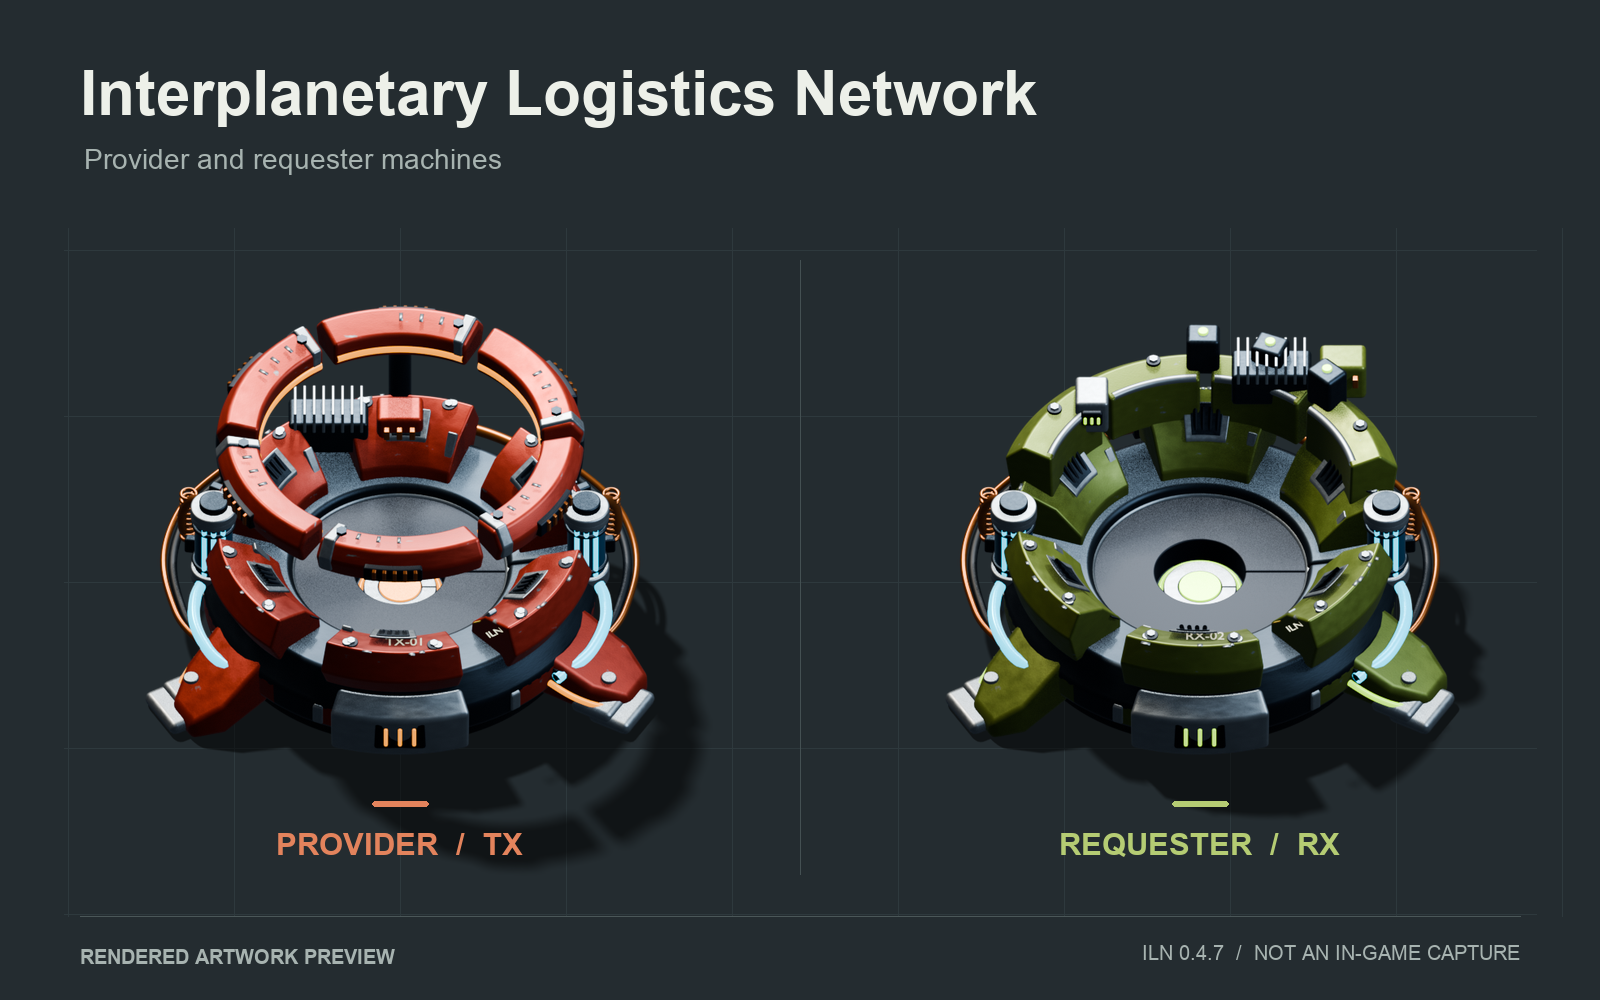
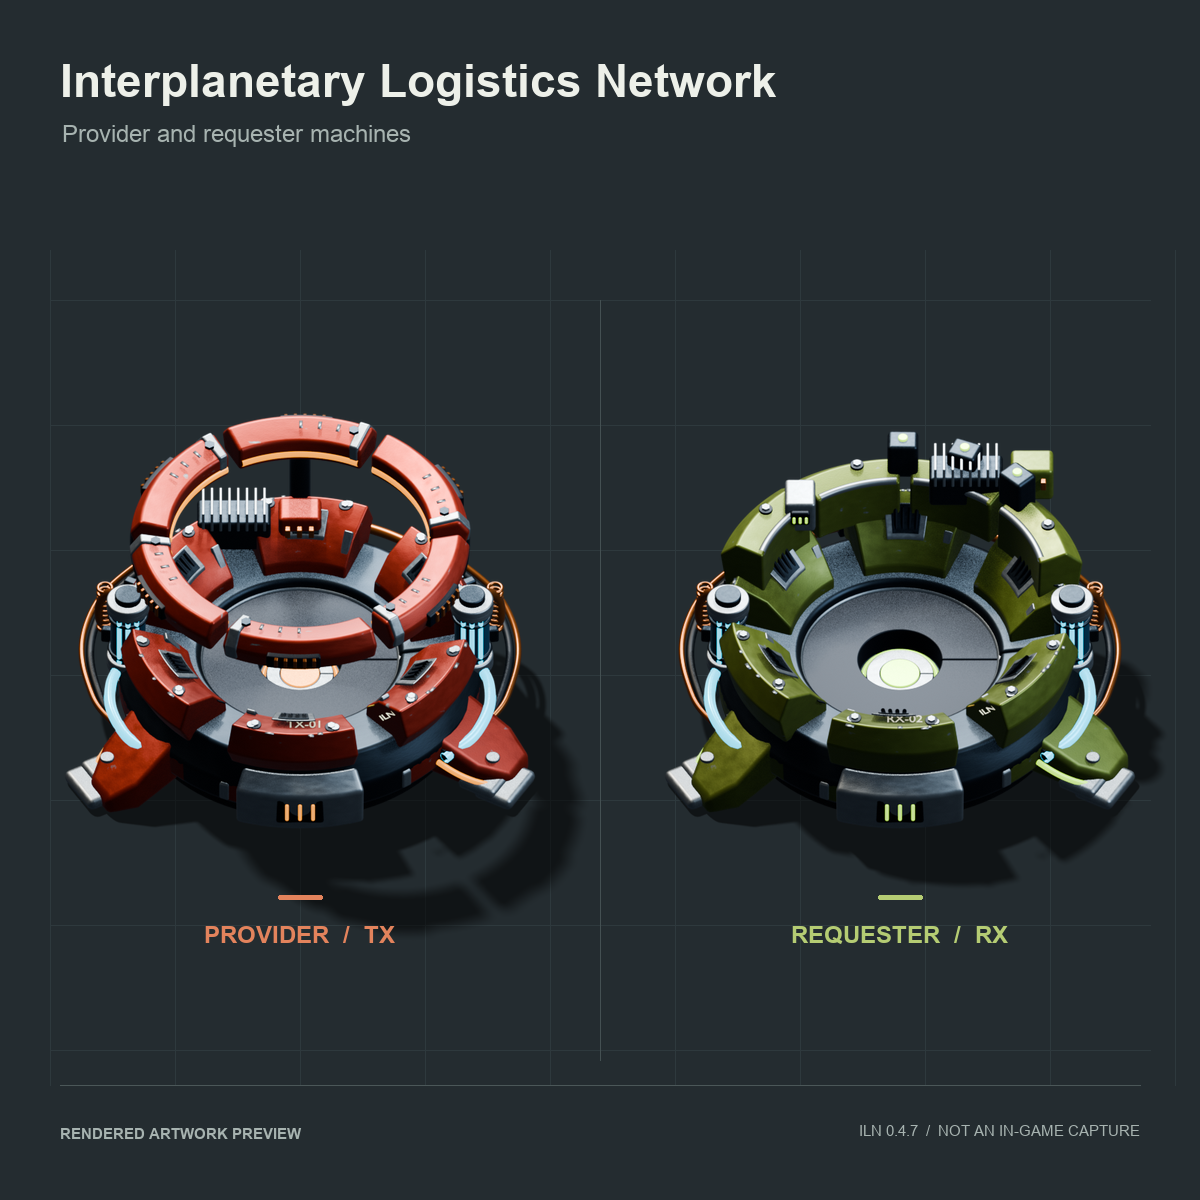
docs(graphics): fit gallery images to portal thumbnails

diff --git a/graphics/source/rounded-transfer-v1/make_portal_gallery.py b/graphics/source/rounded-transfer-v1/make_portal_gallery.py
@@ -40,7 +40,7 @@ for role in ['provider','requester']:
 def machine(page,role,state,center):
     # Raw gallery renders are four times the exported sprite resolution.
     # Use the current prototype scale and shift, including shadow registration.
-    zoom=5.2
+    zoom=4.8
     body=Image.open(RAW/f'{role}-{state}.png').convert('RGBA')
     for name,layer in [(role+'_shadow.png',shadows[role]),(role+'_animation_sheet_'+state+'.png',body)]:
         scale,shift=sprite_params(name,PROTOTYPES)
@@ -50,23 +50,24 @@ def machine(page,role,state,center):
         page.alpha_composite(layer,(round(center[0]-size[0]/2+shift[0]*zoom),round(center[1]-size[1]/2+shift[1]*zoom)))
 
 def poster(filename,title,subtitle,entries):
-    page=Image.new('RGBA',(1600,1000),'#242c30')
+    # Square output keeps the portal's square thumbnail crop faithful.
+    page=Image.new('RGBA',(1200,1200),'#242c30')
     draw=ImageDraw.Draw(page)
     # A restrained neutral grid supplies a common floor without fake gameplay.
-    for x in range(68,1600,166):draw.line((x,228,x,916),fill='#2e393d')
-    for y in range(250,916,166):draw.line((64,y,1536,y),fill='#2e393d')
-    draw.line((800,260,800,874),fill='#445052',width=1)
-    text(draw,(80,58),title,62,bold=True)
-    text(draw,(84,143),subtitle,28,fill=MUTED)
+    for x in range(50,1200,125):draw.line((x,250,x,1085),fill='#2e393d')
+    for y in range(300,1085,125):draw.line((50,y,1150,y),fill='#2e393d')
+    draw.line((600,300,600,1060),fill='#445052',width=1)
+    text(draw,(60,55),title,46,bold=True)
+    text(draw,(62,120),subtitle,24,fill=MUTED)
     for index,(role,state,label) in enumerate(entries):
-        cx=400+index*800
-        machine(page,role,state,(cx,528))
+        cx=300+index*600
+        machine(page,role,state,(cx,620))
         draw=ImageDraw.Draw(page)
-        draw.rounded_rectangle((cx-28,801,cx+28,806),radius=2,fill=ACCENT[role])
-        text(draw,(cx,833),label,31,fill=ACCENT[role],bold=True,anchor='mt')
-    draw.line((80,916,1520,916),fill='#4b5758')
-    text(draw,(80,945),'RENDERED ARTWORK PREVIEW',20,fill=MUTED,bold=True)
-    text(draw,(1520,945),'ILN '+VERSION+'  /  NOT AN IN-GAME CAPTURE',20,fill=MUTED,anchor='rt')
+        draw.rounded_rectangle((cx-22,895,cx+22,899),radius=2,fill=ACCENT[role])
+        text(draw,(cx,926),label,24,fill=ACCENT[role],bold=True,anchor='mt')
+    draw.line((60,1085,1140,1085),fill='#4b5758')
+    text(draw,(60,1125),'RENDERED ARTWORK PREVIEW',15,fill=MUTED,bold=True)
+    text(draw,(1140,1125),'ILN '+VERSION+'  /  NOT AN IN-GAME CAPTURE',15,fill=MUTED,anchor='rt')
     page.convert('RGB').save(OUT/filename,optimize=True)
 
 poster('01-machines.png','Interplanetary Logistics Network','Provider and requester machines',[
